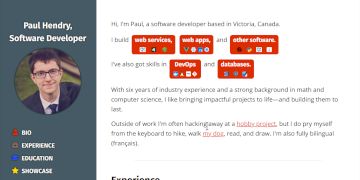
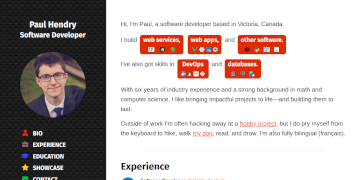
Fix up retro theme and downsize big images

diff --git a/css/retro.css b/css/retro.css
@@ -1,201 +1,132 @@
-.retro {
-  /* The floating elements start looking terrible below this width */
-  min-width: 48rem;
-}
-
 /* Re-establish some default styles we'd normally be happy to be rid of */
-
 .retro caption {
   font-weight: bold;
 }
-
-.retro h1, .retro h2, .retro h3, .retro h4, .retro h5, .retro h6 {
+.retro h1,
+.retro h2,
+.retro h3,
+.retro h4,
+.retro h5,
+.retro h6 {
   font-weight: bold;
 }
-
 .retro h1 {
   font-size: 2rem;
-  margin: 0.67rem 0;
+  line-height: 3rem;
+  margin: 2rem 0 .5rem 0;
 }
-
 .retro h2 {
   font-size: 1.5rem;
-  margin: 0.83rem 0;
+  line-height: 2rem;
+  margin: 1.5rem 0 .5rem 0;
 }
-
 .retro h3 {
-  font-size: 1.117rem;
+  font-size: 1.25rem;
   margin: 1rem 0;
 }
-
 .retro p {
   margin: 1rem 0;
 }
 
-/* */
-
-/* Navbars */
-
-.retro nav {
-  border: 1px solid #000;
-  margin: 32px;
-  min-width: 160px;
+/* Page layout */
+.retro {
+  min-width: 48rem; /* The floating elements start looking terrible below this width */
+  max-width: 58rem;
 }
-
-.retro .nav-title {
-  font-weight: bold;
+.retro .title {
+  margin: 2rem;
 }
-
-.retro #nav-toggle,
-.retro #nav-toggle-input {
-  display: none;
+.retro .title .title__heading::after {
+  content: ", Software Developer";
 }
-
-.retro nav li, .retro .nav-title {
-  text-align: center;
-  padding: 4px 16px;
-}
-
-.retro nav li:not(:last-child), .retro .nav-title {
-  border-bottom: 1px solid #000;
-}
-
-.retro .nav-portrait {
-  display: none;
-}
-
-/* */
-
-/* Tables */
-
-.retro td, .retro th {
-  padding: 4px 8px;
-}
-
-.retro th {
-  background-color: #eee;
-  vertical-align: middle;
-}
-
-/* */
-
-/* Main page layout */
-
-.retro header {
-  margin-left: 14rem; /* Width of navbar and its margins */
-}
-
-.retro nav {
-  float: left;
-  margin-top: 16px;
-}
-
-.retro main {
-  margin: 32px;
-}
-
-.retro .skillset-table {
+.retro .sidebar {
   float: right;
-  margin: 0 0 16px 16px;
 }
-
-.retro footer {
-  font-size: 0.8rem;
-  margin-top: 48px;
+.retro main {
+  margin: 2rem;
+}
+.retro .footer {
+  font-size: 0.75rem;
+  margin-top: 3rem;
   text-align: center;
   width: 100%;
 }
-
-/* */
-
-/* Skillset table */
-
-.retro .no-border {
-  border-style: none;
+.retro .footer .footer__surprise {
+  display: none;
 }
 
-.retro .skillset-table > caption {
-  line-height: 1.2;
-  margin-bottom: 8px; /* Leaves enough room for the ::after hint */
-}
-
-.retro .skillset-table > caption::after {
-  content: '\A(hover for details)';
-  font-size: 0.8rem;
-  font-weight: normal;
-  white-space: pre;
-}
-
-.retro .skillset-table .skillset-item {
-  cursor: help;
-  position: relative;
-  text-decoration: underline;
-  margin-top: 0.5rem;
-}
-
-.retro .skillset-table .skillset-item:last-child {
-  margin-bottom: 0.5rem;
-}
-
-/* Hover text for skillset table items */
-.retro .skillset-table .skillset-item:hover::after {
-  background-color: #fff;
-  color: #111;
+/* Navigation */
+.retro .sidebar {
   border: 1px solid #000;
-  content: attr(data-title);
-  right: 0;
-  line-height: 1.2;
-  padding: 8px;
-  position: absolute;
-  top: 1.75rem;
-  width: 16rem;
-  white-space: pre-line;
-  z-index: 1;
+  margin: 0 2rem 2rem 2rem;
+  min-width: 10rem;
+}
+.retro .sidebar::before {
+  content: "Navigation";
+  display: block;
+  font-weight: bold;
+}
+.retro .sidebar .sidebar__photo {
+  display: none;
+}
+.retro .sidebar::before,
+.retro .nav .nav__item {
+  text-align: center;
+  line-height: 2rem;
+}
+.retro .sidebar::before,
+.retro .nav .nav__item:not(:last-child) {
+  border-bottom: 1px solid #000;
 }
 
-/* */
+/* About section */
+.retro .section_about .about__skill {
+  font-weight: bold;
+  text-decoration: underline;
+}
+.retro .section_about .about__skill > div {
+  display: inline;
+}
+.retro .section_about .about__skill > img {
+  display: none;
+}
 
-/* Employment history */
-
+/* Experience section */
 .retro .employment-item {
-  margin: 2rem 0;
+  margin-top: 1.5rem;
 }
 
-/* */
+/* Showcase section */
 
-/* Project items */
-
-.retro .project-group {
+.retro .section_showcase .showcase__projects {
   display: flex;
   flex-wrap: wrap;
   justify-content: center;
 }
 
-.retro .project-item {
+.retro .showcase__projects .project {
   align-items: center;
   border: 1px solid #000;
   display: flex;
   flex-direction: column;
-  margin: 16px;
-  padding: 16px;
-  width: 360px;
+  margin: 1rem;
+  padding: 1rem;
+  width: calc(24.5rem + 2px);
 }
 
-.retro .project-item > .project-thumbnail {
+.retro .project > .project__thumbnail {
   border: 1px solid #000;
 }
 
-.retro .project-item > .project-title {
-  margin-bottom: 0.5rem;
+.retro .project > .project__title {
+  margin-bottom: .5rem;
 }
 
-.retro .project-item > .project-links {
-  margin-top: 0.5rem;
+.retro .project > .project__links {
+  margin-top: .5rem;
 }
 
-.retro .project-item > .project-links > li {
+.retro .project > .project__links > li {
   display: inline-block;
-  margin-right: 16px;
+  margin-right: 1rem;
 }
-
-/* */

diff --git a/index.html b/index.html
@@ -196,7 +196,7 @@
           </li>
         </ul>
       </section>
-      <section id="showcase" class="main__section">
+      <section id="showcase" class="main__section section_showcase">
         <h2>
           Showcase
         </h2>
@@ -328,16 +328,15 @@
         </h2>
         <p>
           Let's get in touch! I'm available by email
-          (<a href="mailto:&#112;&#097;&#117;&#108;&#064;&#112;&#115;&#104;&#101;&#110;&#100;&#114;&#121;&#046;&#099;&#111;&#109;">&#112;&#097;&#117;&#108;&#064;&#112;&#115;&#104;&#101;&#110;&#100;&#114;&#121;&#046;&#099;&#111;&#109;</a>),
-            <a href="https://www.linkedin.com/in/pshendry" target="_blank">LinkedIn</a>, and
-            <a href="https://github.com/pshendry" target="_blank">GitHub</a>.
+          (<a href="mailto:&#112;&#097;&#117;&#108;&#064;&#112;&#115;&#104;&#101;&#110;&#100;&#114;&#121;&#046;&#099;&#111;&#109;">&#112;&#097;&#117;&#108;&#064;&#112;&#115;&#104;&#101;&#110;&#100;&#114;&#121;&#046;&#099;&#111;&#109;</a>) and
+            <a href="https://www.linkedin.com/in/pshendry" target="_blank">LinkedIn</a>.
         </p>
       </section>
     </main>
     <footer class="footer">
       © 2014 Paul Hendry.
       <a class="footer__surprise" href="#" onclick="goRetro()">
-        Click here for a surprise!
+        Click here for a surprise.
       </a>
     </footer>
   </body>
